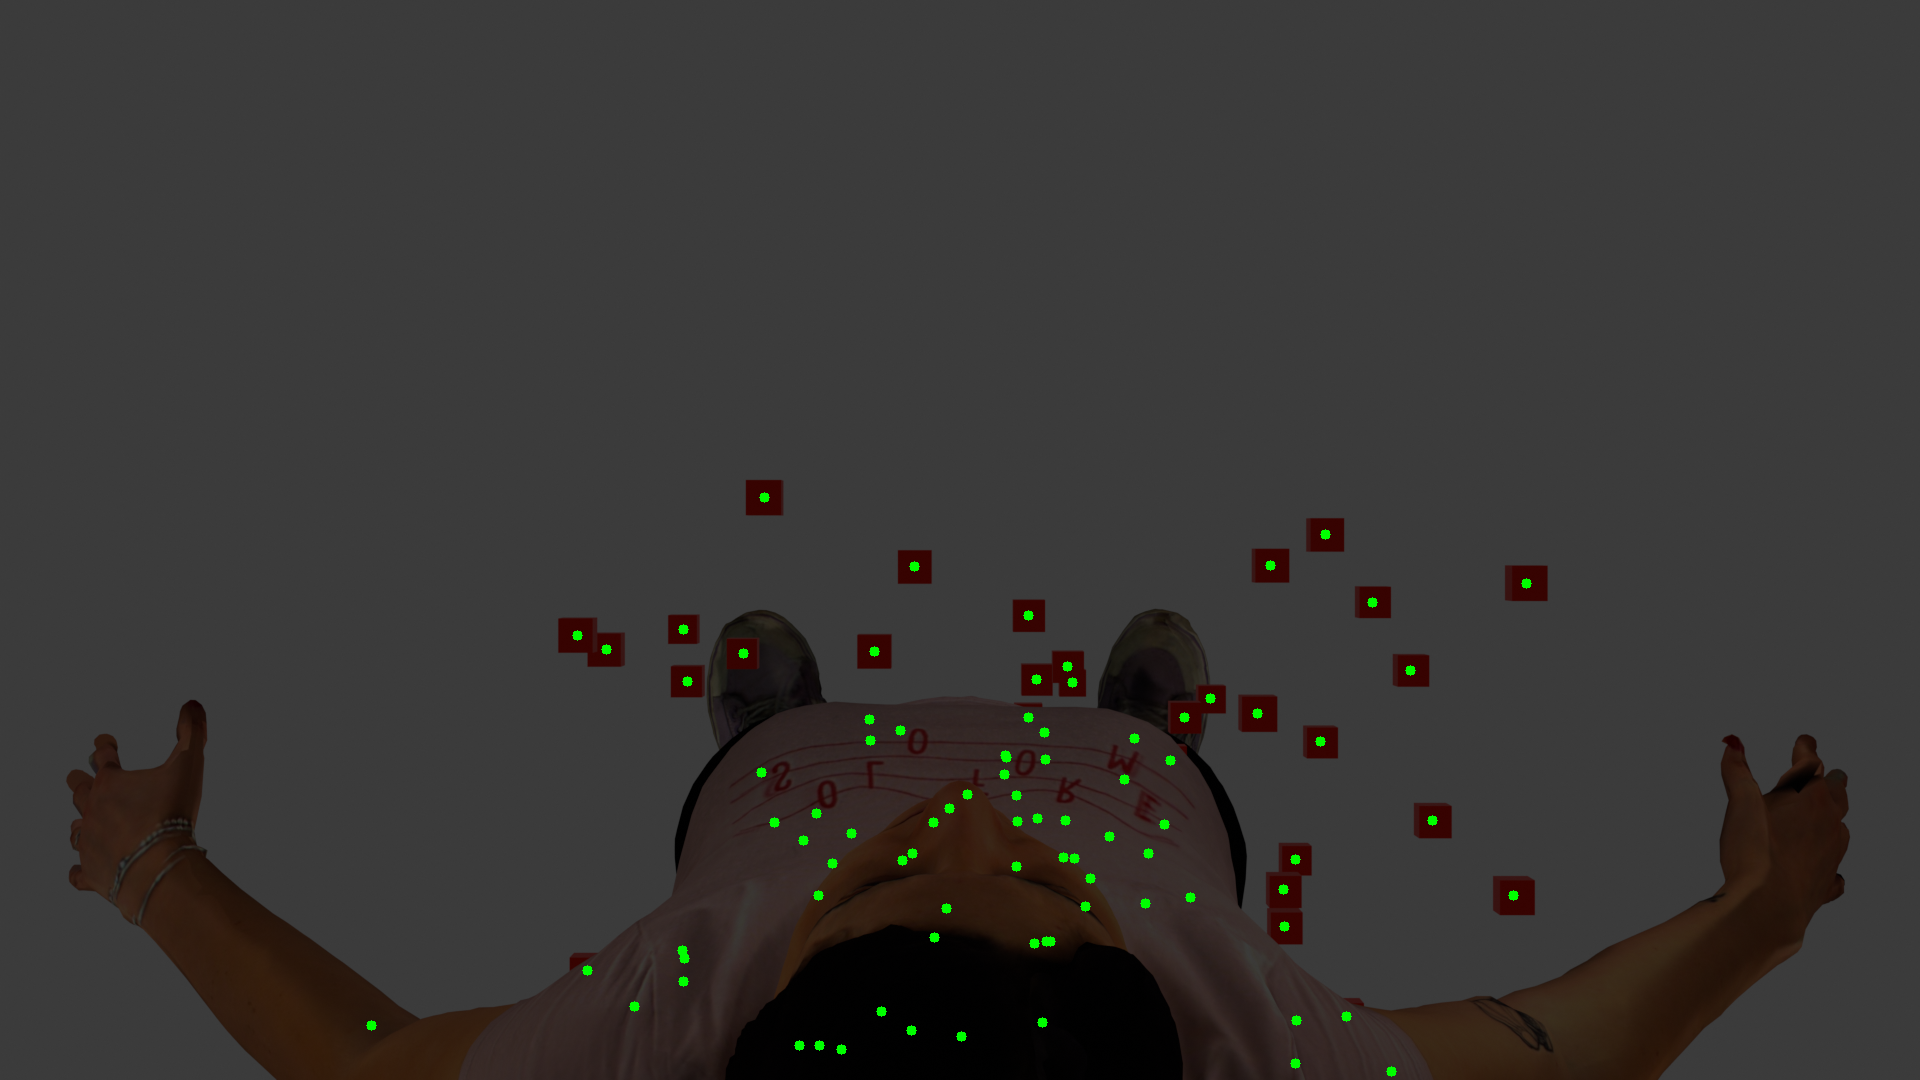
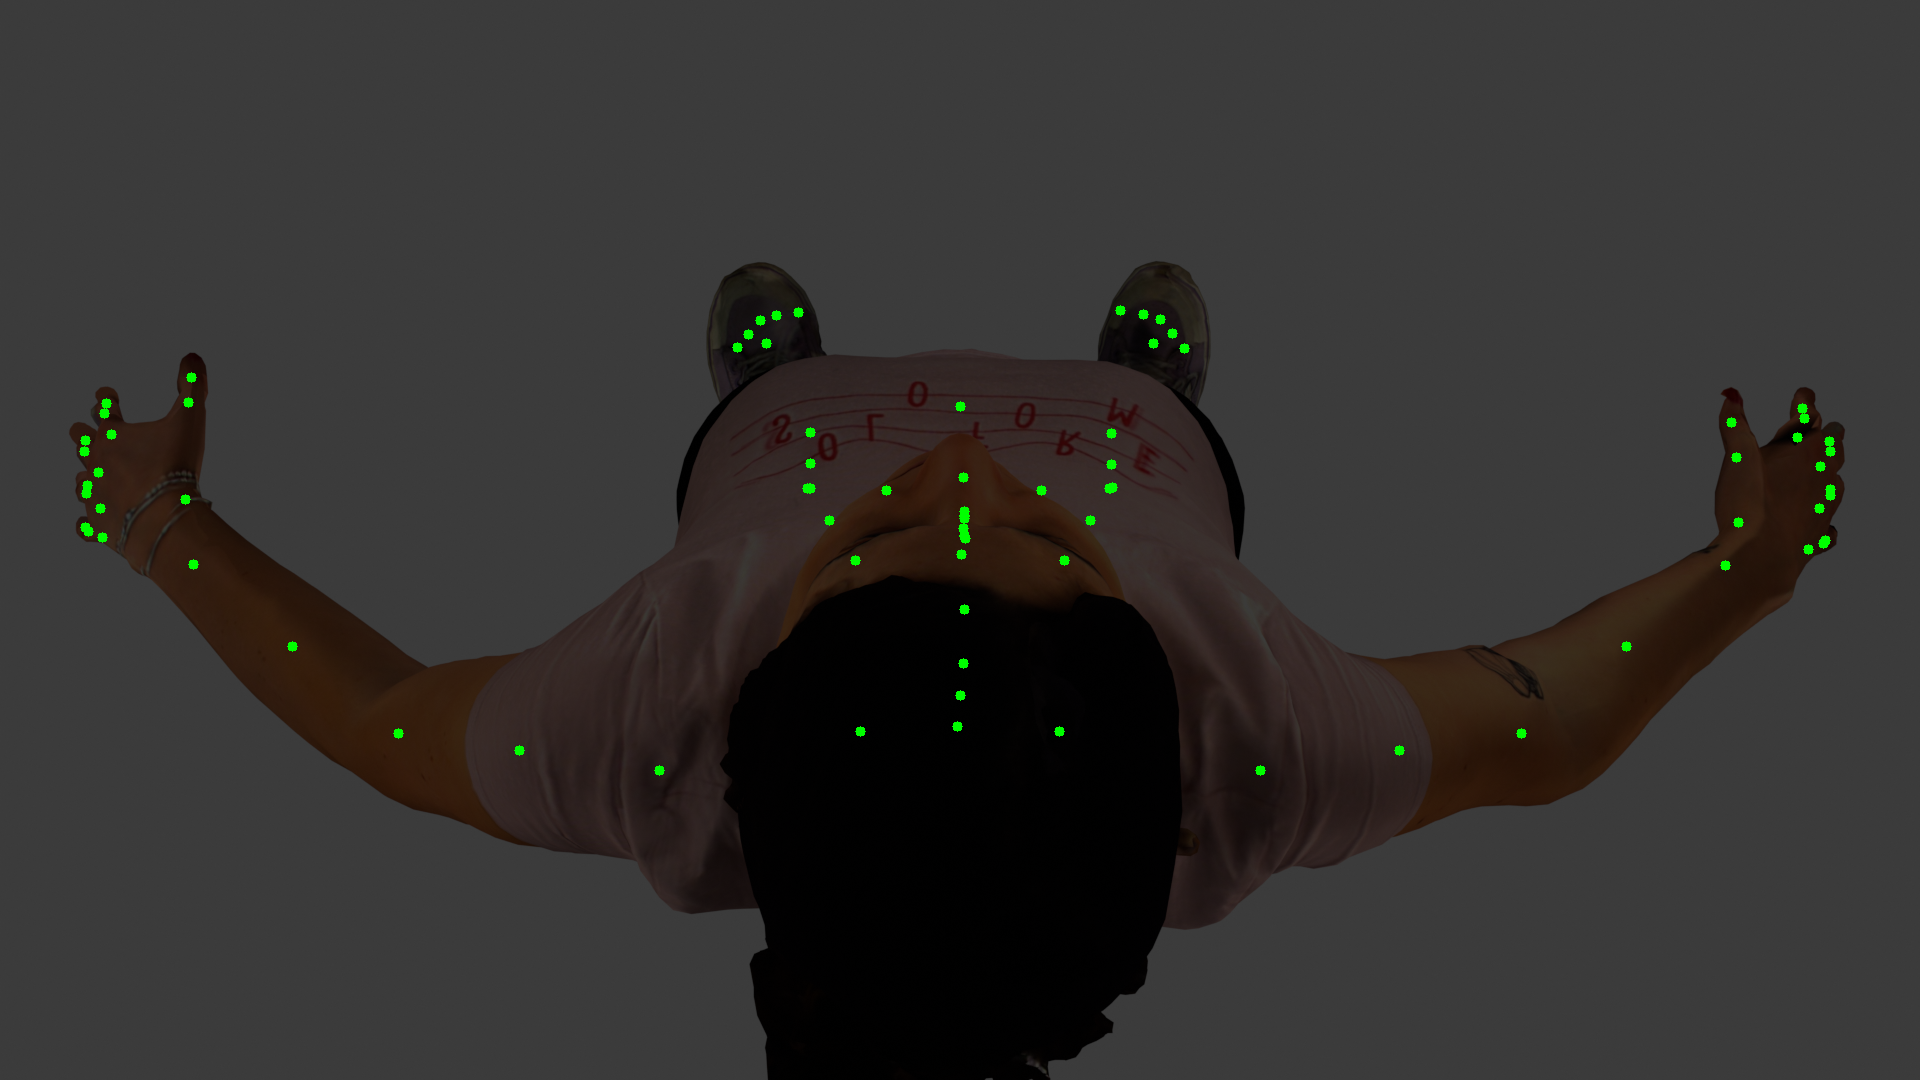
added script to extract bones coordinates

Changed region(s): [[0.0312, 0.2444, 0.9688, 1.0], [0.7812, 0.7944, 0.8125, 0.8556]]

diff --git a/extract_bones_coordinates.py b/extract_bones_coordinates.py
@@ -1,0 +1,62 @@
+import bpy
+from bpy_extras.object_utils import world_to_camera_view
+
+# Specify the file path of the FBX file
+fbx_file_path = "/home/sh4ring4n/University/cv/GiuliaRigged.fbx"  # Replace with the actual path to your FBX file
+
+# Import the FBX file
+bpy.ops.import_scene.fbx(filepath=fbx_file_path)
+
+# Get the imported armature object
+armature = None
+for obj in bpy.context.scene.objects:
+    if obj.type == 'ARMATURE':
+        armature = obj
+        break
+
+if armature is None:
+    raise ValueError("No armature found in the imported FBX file.")
+
+# Move the armature to the origin
+armature.location = (0, 0, 0)
+bpy.context.view_layer.update()
+
+# Add a camera object
+camera = bpy.data.objects.new("Camera", bpy.data.cameras.new("Camera"))
+bpy.context.collection.objects.link(camera)
+camera.location = (0, -2, 25)
+camera.rotation_euler = (0.13, 0, 0)
+bpy.context.scene.camera = camera
+bpy.context.view_layer.update()
+
+# Retrieve the global coordinates of all bones
+bone_coordinates_3d = []
+if armature.pose:
+    for bone in armature.pose.bones:
+        # Get the global position of the bone head
+        bone_global_position = armature.matrix_world @ bone.head
+        bone_coordinates_3d.append((bone.name, bone_global_position))
+
+# Write the 3D bone coordinates to a text file
+output_file_path_3d = bpy.path.abspath("/home/sh4ring4n/University/cv/CV_project/bones_3D_coordinates.txt")
+with open(output_file_path_3d, "w") as file:
+    for bone_name, coord in bone_coordinates_3d:
+        file.write(f"{coord.x:.6f}, {coord.y:.6f}, {coord.z:.6f}\n")
+
+print(f"3D bone coordinates have been saved to {output_file_path_3d}")
+
+# Retrieve the 2D coordinates of all bones
+bone_coordinates_2d = []
+scene = bpy.context.scene
+for bone_name, coord in bone_coordinates_3d:
+    # Convert 3D global coordinates to 2D screen space
+    coord_2d = world_to_camera_view(scene, camera, coord)
+    bone_coordinates_2d.append((bone_name, coord_2d))
+
+# Write the 2D bone coordinates to a text file
+output_file_path_2d = bpy.path.abspath("/home/sh4ring4n/University/cv/CV_project/bones_2D_coordinates.txt")
+with open(output_file_path_2d, "w") as file:
+    for bone_name, coord in bone_coordinates_2d:
+        file.write(f"{coord.x:.6f}, {coord.y:.6f}\n")
+
+print(f"2D bone coordinates have been saved to {output_file_path_2d}")

diff --git a/projection.py b/projection.py
@@ -4,9 +4,11 @@ import random
 from bpy_extras.object_utils import world_to_camera_view
 
 
+path = "/home/sh4ring4n/University/cv"
+
 def import_mesh():
      # Path to your FBX file
-    fbx_path = "/home/sh4ring4n/University/cv/GiuliaRigged.fbx"
+    fbx_path = f"{path}/GiuliaRigged.fbx"
 
     # Import the FBX file
     bpy.ops.import_scene.fbx(filepath=fbx_path)
@@ -170,10 +172,10 @@ def main():
 
     # Save and register 2D coordinates
     coordinates = save_2d_coordinates(camera, random_points)
-    with open("/home/sh4ring4n/University/cv/3D_coordinates.txt", 'w') as file:
+    with open(f"{path}/CV_project/3D_coordinates.txt", 'w') as file:
         file.writelines(f"{point.x},{point.y},{point.z}\n" for point in random_points)
     
-    with open("/home/sh4ring4n/University/cv/2D_coordinates.txt", 'w') as file:
+    with open(f"{path}/CV_project/2D_coordinates.txt", 'w') as file:
         file.writelines(f"{point[0]},{point[1]}\n" for point in coordinates)
         
     

diff --git a/highlight_points.py b/highlight_points.py
@@ -19,6 +19,7 @@ def draw_points(image_path, coordinates_file, output_path):
     # Read coordinates from the text file
     try:
         with open(coordinates_file, 'r') as file:
+            
             for line in file:
                 # Parse each line to extract normalized coordinates
                 try:
@@ -43,7 +44,7 @@ def draw_points(image_path, coordinates_file, output_path):
 image_path = "./rotated_render.png"
 # image_path = "./render.png"
 
-coordinates_file = "2D_coordinates.txt"
+coordinates_file = "bones_2D_coordinates.txt"
 output_path = "./out/out.png"
 
 draw_points(image_path, coordinates_file, output_path)
